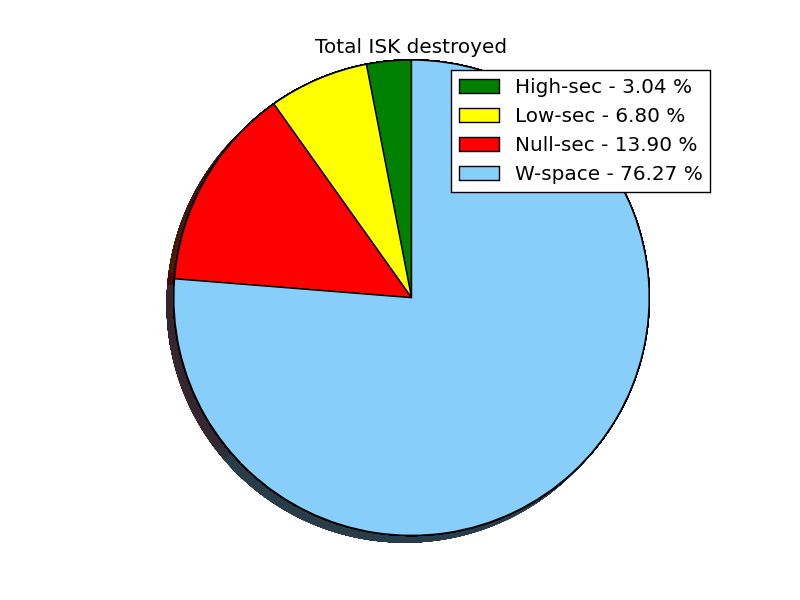
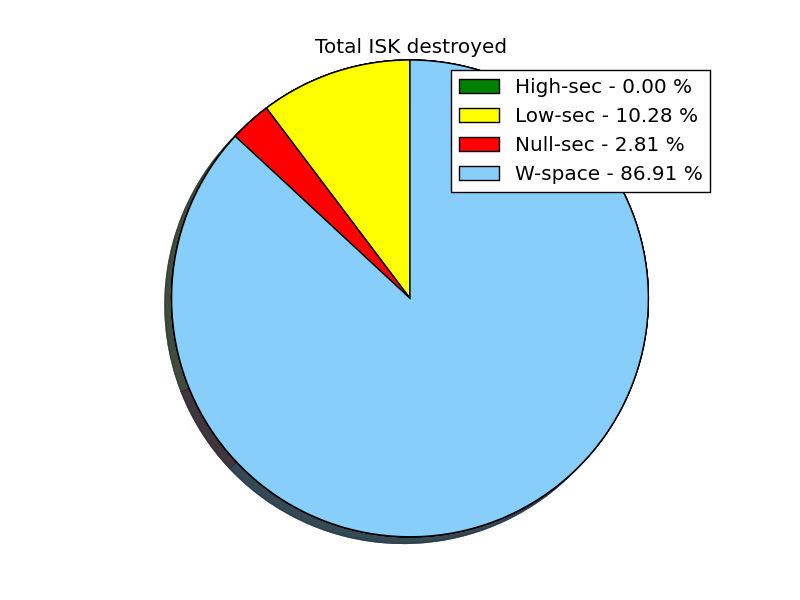
Myra custom made - week 1

diff --git a/src/wingspanstats.py b/src/wingspanstats.py
@@ -3,6 +3,7 @@
 
 import os
 import json
+from datetime import datetime
 
 from rules.statsconfig import StatsConfig
 from rules.generalstats import GeneralStats
@@ -61,20 +62,22 @@ def extract_killmails(file_name, rules_alltime, rules_monthly, awox_alltime, awo
         data = json.load(data_file)
 
     for killmail in data:
-        awox_alltime.process_km(killmail)
-        awox_monthly.process_km(killmail)
-        awox = False
-        if killmail['victim']['corporationID'] in StatsConfig.CORP_IDS:
-            awox = True
+        kill_time = datetime.strptime(killmail['killTime'], '%Y-%m-%d %H:%M:%S')
+        if datetime(2016, 5, 1, 0, 0, 0) <= kill_time <= datetime(2016, 5, 7, 23, 59, 59):
+            awox_alltime.process_km(killmail)
+            awox_monthly.process_km(killmail)
+            awox = False
+            if killmail['victim']['corporationID'] in StatsConfig.CORP_IDS:
+                awox = True
 
-        [total_non_npc_attackers, wingspan_attackers] = StatsConfig.attacker_types(killmail)
-        if total_non_npc_attackers > 0:
-            if not awox or StatsConfig.INCLUDE_AWOX:
-                if float(wingspan_attackers) / float(total_non_npc_attackers) >= StatsConfig.FLEET_COMP:
-                    for rule in rules_alltime:
-                        rule.process_km(killmail)
-                    for rule in rules_monthly:
-                        rule.process_km(killmail)
+            [total_non_npc_attackers, wingspan_attackers] = StatsConfig.attacker_types(killmail)
+            if total_non_npc_attackers > 0:
+                if not awox or StatsConfig.INCLUDE_AWOX:
+                    if float(wingspan_attackers) / float(total_non_npc_attackers) >= StatsConfig.FLEET_COMP:
+                        for rule in rules_alltime:
+                            rule.process_km(killmail)
+                        for rule in rules_monthly:
+                            rule.process_km(killmail)
 
 
 def analyze_data(db_list):
@@ -99,9 +102,10 @@ def analyze_data(db_list):
                 else:
                     break
 
+            suffix = "W1"
             for rule in rules_monthly:
-                rule.output_results(os.path.join(StatsConfig.RESULTS_PATH, "{}-{:02d}".format(year, month)))
-            awox_monthly.output_results(os.path.join(StatsConfig.RESULTS_PATH, "{}-{:02d}".format(year, month)))
+                rule.output_results(os.path.join(StatsConfig.RESULTS_PATH, "{}-{:02d}-{}".format(year, month, suffix)))
+            awox_monthly.output_results(os.path.join(StatsConfig.RESULTS_PATH, "{}-{:02d}-{}".format(year, month, suffix)))
 
     for rule in rules_alltime:
         rule.output_results(os.path.join(StatsConfig.RESULTS_PATH, '__alltime__'))
@@ -110,28 +114,29 @@ def analyze_data(db_list):
 
 def main():
     analyze_data([
-        (2014, 7),
-        (2014, 8),
-        (2014, 9),
-        (2014, 10),
-        (2014, 11),
-        (2014, 12),
-        (2015, 1),
-        (2015, 2),
-        (2015, 3),
-        (2015, 4),
-        (2015, 5),
-        (2015, 6),
-        (2015, 7),
-        (2015, 8),
-        (2015, 9),
-        (2015, 10),
-        (2015, 11),
-        (2015, 12),
-        (2016, 1),
-        (2016, 2),
-        (2016, 3),
-        (2016, 4),
+        # (2014, 7),
+        # (2014, 8),
+        # (2014, 9),
+        # (2014, 10),
+        # (2014, 11),
+        # (2014, 12),
+        # (2015, 1),
+        # (2015, 2),
+        # (2015, 3),
+        # (2015, 4),
+        # (2015, 5),
+        # (2015, 6),
+        # (2015, 7),
+        # (2015, 8),
+        # (2015, 9),
+        # (2015, 10),
+        # (2015, 11),
+        # (2015, 12),
+        # (2016, 1),
+        # (2016, 2),
+        # (2016, 3),
+        # (2016, 4),
+        (2016, 5),
     ])
 
 if __name__ == "__main__":

diff --git a/src/db_create.py b/src/db_create.py
@@ -71,29 +71,30 @@ def extract_data(year, month):
 
 
 def main():
-    extract_data(2014, 7)
-    extract_data(2014, 8)
-    extract_data(2014, 9)
-    extract_data(2014, 10)
-    extract_data(2014, 11)
-    extract_data(2014, 12)
-
-    extract_data(2015, 1)
-    extract_data(2015, 2)
-    extract_data(2015, 3)
-    extract_data(2015, 4)
-    extract_data(2015, 5)
-    extract_data(2015, 6)
-    extract_data(2015, 7)
-    extract_data(2015, 8)
-    extract_data(2015, 9)
-    extract_data(2015, 10)
-    extract_data(2015, 11)
-    extract_data(2015, 12)
-    extract_data(2016, 1)
-    extract_data(2016, 2)
-    extract_data(2016, 3)
-    extract_data(2016, 4)
+    # extract_data(2014, 7)
+    # extract_data(2014, 8)
+    # extract_data(2014, 9)
+    # extract_data(2014, 10)
+    # extract_data(2014, 11)
+    # extract_data(2014, 12)
+    #
+    # extract_data(2015, 1)
+    # extract_data(2015, 2)
+    # extract_data(2015, 3)
+    # extract_data(2015, 4)
+    # extract_data(2015, 5)
+    # extract_data(2015, 6)
+    # extract_data(2015, 7)
+    # extract_data(2015, 8)
+    # extract_data(2015, 9)
+    # extract_data(2015, 10)
+    # extract_data(2015, 11)
+    # extract_data(2015, 12)
+    # extract_data(2016, 1)
+    # extract_data(2016, 2)
+    # extract_data(2016, 3)
+    # extract_data(2016, 4)
+    extract_data(2016, 5)
 
 if __name__ == "__main__":
     main()
